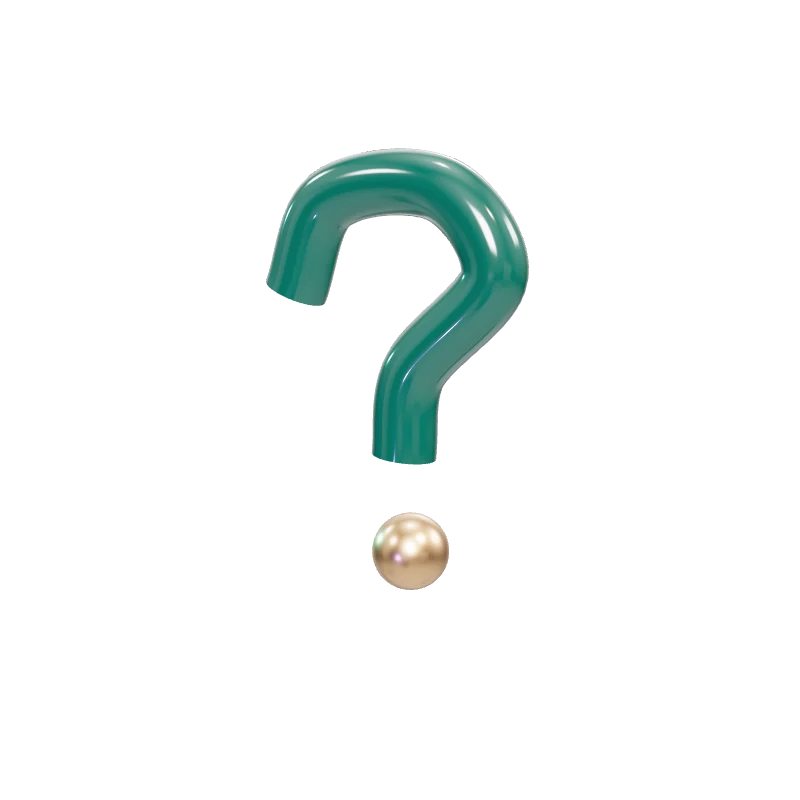
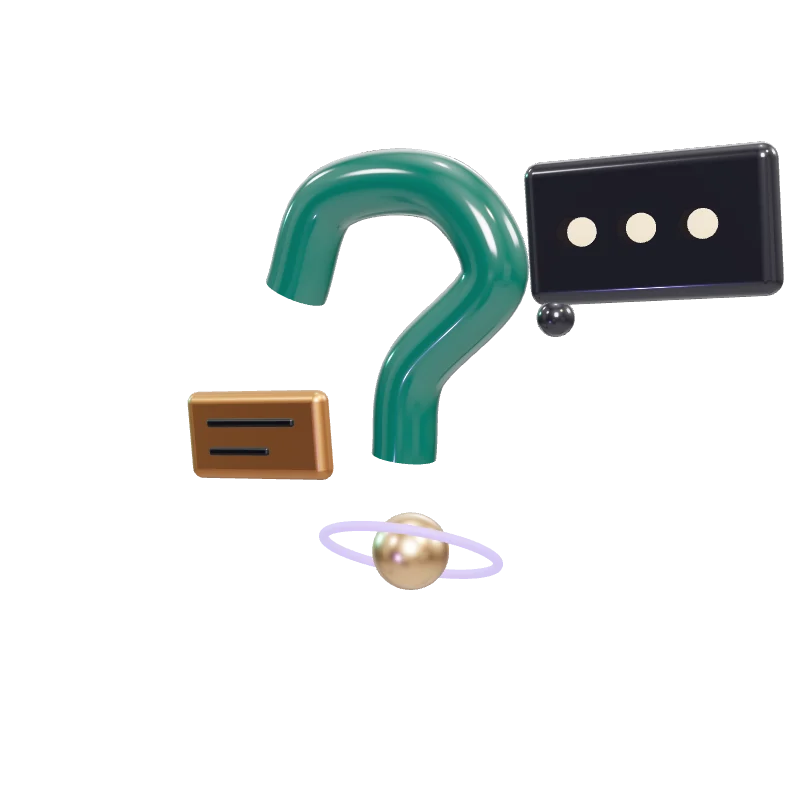
feat: glass FAQ accordion, category scrollspy and richer FAQ 3D art
Numbered glass accordion cards with gradient border and smooth open,
sticky category nav with active state, mobile category chips, and a
re-rendered question mark with answer bubbles.

Changed region(s): [[0.6562, 0.1562, 1.0, 0.4375], [0.2188, 0.4688, 0.4375, 0.625], [0.375, 0.625, 0.625, 0.75]]

diff --git a/client/src/styles/faq.css b/client/src/styles/faq.css
@@ -1,0 +1,178 @@
+/* ===========================================================
+   FAQ: glass accordion cards, numbered questions, category navigation.
+   Used by the FAQ page, the Home FAQ teaser and service detail pages.
+   =========================================================== */
+
+:root { interpolate-size: allow-keywords; }
+
+.faq-list { display: grid; gap: 0.75rem; }
+
+.faq-item {
+  border: 1px solid var(--line);
+  border-radius: 1rem;
+  background:
+    linear-gradient(180deg, rgba(255, 255, 255, 0.035), rgba(255, 255, 255, 0.01)) padding-box,
+    linear-gradient(var(--line), var(--line)) border-box;
+  transition: border-color 0.3s ease, background 0.3s ease, box-shadow 0.3s ease, transform 0.3s ease;
+}
+.faq-item:hover { border-color: var(--line-strong); }
+.faq-item[open] {
+  border-color: transparent;
+  background:
+    linear-gradient(180deg, rgba(25, 25, 30, 0.96), rgba(19, 19, 23, 0.96)) padding-box,
+    linear-gradient(120deg, rgba(214, 167, 122, 0.65), rgba(47, 179, 162, 0.45) 55%, rgba(139, 124, 246, 0.25)) border-box;
+  box-shadow: 0 24px 50px -36px rgba(214, 167, 122, 0.45);
+}
+
+.faq-q {
+  display: flex;
+  align-items: center;
+  gap: 1rem;
+  padding: 1.15rem 1.25rem;
+  cursor: pointer;
+  list-style: none;
+  font-weight: 600;
+  color: var(--t-primary);
+  border-radius: 1rem;
+}
+.faq-q::-webkit-details-marker { display: none; }
+.faq-q:focus-visible { outline: 2px solid var(--brand); outline-offset: 2px; }
+@media (min-width: 768px) { .faq-q { padding: 1.3rem 1.6rem; } }
+
+.faq-num {
+  flex-shrink: 0;
+  min-width: 2.25rem;
+  font-family: "JetBrains Mono", ui-monospace, monospace;
+  font-size: 0.75rem;
+  font-weight: 500;
+  letter-spacing: 0.08em;
+  color: rgba(214, 167, 122, 0.55);
+  transition: color 0.3s ease;
+}
+.faq-item[open] .faq-num,
+.faq-item:hover .faq-num { color: var(--brand); }
+
+/* Plus that turns into a minus */
+.faq-icon {
+  position: relative;
+  flex-shrink: 0;
+  width: 2rem;
+  height: 2rem;
+  border-radius: 999px;
+  border: 1px solid var(--line-strong);
+  transition: background 0.3s ease, border-color 0.3s ease, transform 0.4s cubic-bezier(0.2, 0.8, 0.2, 1);
+}
+.faq-icon::before,
+.faq-icon::after {
+  content: "";
+  position: absolute;
+  inset: 50% auto auto 50%;
+  width: 0.7rem;
+  height: 1.5px;
+  border-radius: 2px;
+  background: currentColor;
+  color: var(--brand);
+  translate: -50% -50%;
+  transition: rotate 0.4s cubic-bezier(0.2, 0.8, 0.2, 1);
+}
+.faq-icon::after { rotate: 90deg; }
+.faq-item[open] .faq-icon { background: var(--brand-soft); border-color: var(--brand-line); transform: rotate(180deg); }
+.faq-item[open] .faq-icon::after { rotate: 0deg; }
+
+.faq-a {
+  padding: 0 1.25rem 1.3rem calc(1.25rem + 3.25rem);
+  line-height: 1.75;
+  color: var(--t-secondary);
+}
+@media (min-width: 768px) { .faq-a { padding: 0 4.5rem 1.5rem calc(1.6rem + 3.25rem); } }
+@media (max-width: 479px) { .faq-a { padding-inline-start: 1.25rem; } }
+
+/* Smooth open/close where the browser supports animating <details> */
+.faq-item::details-content {
+  block-size: 0;
+  overflow: clip;
+  transition: block-size 0.4s cubic-bezier(0.2, 0.8, 0.2, 1), content-visibility 0.4s allow-discrete;
+}
+.faq-item[open]::details-content { block-size: auto; }
+.faq-item[open] .faq-a { animation: faq-in 0.45s ease both; }
+@keyframes faq-in {
+  from { opacity: 0; transform: translateY(-6px); }
+}
+
+/* ---------- FAQ page: category navigation ---------- */
+.faq-nav { padding: 0.5rem; }
+.faq-nav a {
+  position: relative;
+  display: flex;
+  align-items: center;
+  gap: 0.75rem;
+  min-height: 2.75rem;
+  padding: 0.55rem 0.85rem;
+  border-radius: 0.75rem;
+  font-size: 0.875rem;
+  color: var(--t-secondary);
+  transition: background 0.25s ease, color 0.25s ease;
+}
+.faq-nav a:hover { background: rgba(255, 255, 255, 0.04); color: var(--t-primary); }
+.faq-nav a[aria-current="true"] { background: var(--brand-soft); color: var(--t-primary); }
+.faq-nav a[aria-current="true"]::before {
+  content: "";
+  position: absolute;
+  inset-block: 0.6rem;
+  inset-inline-start: 0;
+  width: 2px;
+  border-radius: 2px;
+  background: linear-gradient(180deg, var(--brand), var(--teal));
+}
+.faq-nav .faq-nav-num { font-family: "JetBrains Mono", ui-monospace, monospace; font-size: 0.7rem; color: rgba(214, 167, 122, 0.7); }
+.faq-nav .faq-nav-count {
+  margin-inline-start: auto;
+  min-width: 1.6rem;
+  padding: 0.1rem 0.45rem;
+  border-radius: 999px;
+  border: 1px solid var(--line);
+  font-size: 0.7rem;
+  text-align: center;
+}
+
+/* Mobile: horizontal category chips */
+.faq-chips {
+  display: flex;
+  gap: 0.5rem;
+  overflow-x: auto;
+  scrollbar-width: none;
+  margin-inline: -1rem;
+  padding: 0 1rem 0.25rem;
+}
+.faq-chips::-webkit-scrollbar { display: none; }
+@media (min-width: 1024px) { .faq-chips { display: none; } }
+.faq-chips a {
+  flex-shrink: 0;
+  display: inline-flex;
+  align-items: center;
+  min-height: 2.5rem;
+  padding: 0 1rem;
+  border-radius: 999px;
+  border: 1px solid var(--line-strong);
+  background: rgba(255, 255, 255, 0.03);
+  font-size: 0.8125rem;
+  color: var(--t-secondary);
+  white-space: nowrap;
+}
+.faq-chips a[aria-current="true"] { border-color: var(--brand-line); background: var(--brand-soft); color: var(--t-primary); }
+
+.faq-cat-head { display: flex; align-items: flex-end; justify-content: space-between; gap: 1rem; margin-bottom: 1.25rem; }
+.faq-cat-index {
+  font-family: "JetBrains Mono", ui-monospace, monospace;
+  font-size: 0.75rem;
+  letter-spacing: 0.14em;
+  color: var(--brand);
+}
+.faq-cat-rule { height: 1px; flex: 1; margin-bottom: 0.6rem; background: linear-gradient(90deg, var(--brand-line), transparent); }
+[dir="rtl"] .faq-cat-rule { background: linear-gradient(270deg, var(--brand-line), transparent); }
+
+@media (prefers-reduced-motion: reduce) {
+  .faq-item::details-content { transition: none; }
+  .faq-item[open] .faq-a { animation: none; }
+  .faq-icon, .faq-icon::before, .faq-icon::after { transition: none; }
+}

diff --git a/client/src/pages/Faq.tsx b/client/src/pages/Faq.tsx
@@ -1,3 +1,4 @@
+import { useEffect, useState } from "react";
 import { Link } from "wouter";
 import { Layout } from "@/components/site/Layout";
 import { Render3D } from "@/components/visuals/Render3D";
@@ -5,37 +6,82 @@ import { FaqList, PageHero } from "@/components/site/blocks";
 import { useI18n } from "@/i18n";
 import { useSite } from "@/lib/site";
 
+const pad = (value: number) => String(value).padStart(2, "0");
+
+/** Tracks which FAQ category is currently in the reading zone of the viewport. */
+function useActiveSection(ids: string[]) {
+  const [active, setActive] = useState(ids[0] ?? "");
+  const key = ids.join("|");
+  useEffect(() => {
+    const sections = key.split("|").map((id) => document.getElementById(id)).filter((node): node is HTMLElement => node !== null);
+    if (sections.length === 0 || typeof IntersectionObserver === "undefined") return;
+    const observer = new IntersectionObserver(
+      (entries) => {
+        const visible = entries.filter((entry) => entry.isIntersecting);
+        if (visible.length > 0) setActive(visible[0].target.id);
+      },
+      { rootMargin: "-30% 0px -60% 0px" },
+    );
+    sections.forEach((section) => observer.observe(section));
+    return () => observer.disconnect();
+  }, [key]);
+  return active;
+}
+
 export default function Faq() {
   const { t } = useI18n();
   const { site } = useSite();
   const f = t.faq;
+  const total = f.categories.length;
+  const active = useActiveSection(f.categories.map((category) => category.id));
+
   return (
     <Layout>
       <PageHero eyebrow={f.eyebrow} title={f.title} subtitle={f.subtitle} art={<Render3D name="faq" float eager />} />
-      <section className="section-pad">
-        <div className="container-w grid gap-12 lg:grid-cols-[260px_1fr]">
+      <section className="section-pad mesh mesh-teal">
+        <div className="container-w grid gap-10 lg:grid-cols-[280px_1fr] lg:gap-14">
+          <nav aria-label={f.eyebrow} className="faq-chips lg:hidden">
+            {f.categories.map((category) => (
+              <a key={category.id} href={`#${category.id}`} aria-current={active === category.id ? "true" : undefined}>{category.title}</a>
+            ))}
+          </nav>
           <nav aria-label={f.eyebrow} className="hidden lg:block">
-            <ul className="sticky top-24 space-y-1 text-sm">
-              {f.categories.map((category) => (
+            <ul className="faq-nav glass-panel sticky top-24 space-y-0.5">
+              {f.categories.map((category, index) => (
                 <li key={category.id}>
-                  <a href={`#${category.id}`} className="flex min-h-11 items-center rounded-xl px-3 py-2 t-secondary hover:bg-[var(--bg-subtle)] hover:t-primary">{category.title}</a>
+                  <a href={`#${category.id}`} aria-current={active === category.id ? "true" : undefined}>
+                    <span className="faq-nav-num" aria-hidden="true">{pad(index + 1)}</span>
+                    <span>{category.title}</span>
+                    <span className="faq-nav-count" aria-hidden="true">{category.items.length}</span>
+                  </a>
                 </li>
               ))}
             </ul>
           </nav>
-          <div className="space-y-14">
-            {f.categories.map((category) => (
+          <div className="space-y-16">
+            {f.categories.map((category, index) => (
               <section key={category.id} id={category.id} className="scroll-mt-24" aria-labelledby={`${category.id}-title`}>
-                <h2 id={`${category.id}-title`} className="mb-5 text-2xl font-bold t-primary">{category.title}</h2>
+                <div className="faq-cat-head">
+                  <div>
+                    <p className="faq-cat-index" aria-hidden="true" dir="ltr">{pad(index + 1)} / {pad(total)}</p>
+                    <h2 id={`${category.id}-title`} className="mt-2 font-display text-3xl font-semibold t-primary md:text-4xl">{category.title}</h2>
+                  </div>
+                  <span className="faq-cat-rule" aria-hidden="true" />
+                </div>
                 <FaqList items={category.items} />
               </section>
             ))}
-            <div className="rounded-2xl bg-[var(--bg-subtle)] p-6 md:p-7">
-              <h2 className="text-xl font-bold t-primary">{f.stillTitle}</h2>
-              <p className="mt-2 t-secondary">{f.stillText}</p>
-              <div className="mt-5 flex flex-col gap-3 sm:flex-row">
-                <Link href="/contact" className="btn btn-primary">{t.common.cta.contactUs}</Link>
-                <a href={`https://wa.me/${site.whatsapp}`} target="_blank" rel="noopener noreferrer" className="btn btn-outline">{t.common.cta.whatsapp}</a>
+            <div className="glass-panel mesh mesh-gold relative overflow-hidden p-7 md:p-10">
+              <div className="grid items-center gap-6 md:grid-cols-[1fr_180px]">
+                <div>
+                  <h2 className="font-display text-3xl font-semibold t-primary">{f.stillTitle}</h2>
+                  <p className="mt-3 max-w-xl t-secondary">{f.stillText}</p>
+                  <div className="mt-6 flex flex-col gap-3 sm:flex-row">
+                    <Link href="/contact" className="btn btn-primary">{t.common.cta.contactUs}</Link>
+                    <a href={`https://wa.me/${site.whatsapp}`} target="_blank" rel="noopener noreferrer" className="btn btn-outline">{t.common.cta.whatsapp}</a>
+                  </div>
+                </div>
+                <Render3D name="cta" float className="hidden md:block" sizes="180px" />
               </div>
             </div>
           </div>

diff --git a/client/src/components/site/blocks.tsx b/client/src/components/site/blocks.tsx
@@ -2,7 +2,7 @@ import { Banner } from "@/components/visuals/Banner";
 import { Render3D } from "@/components/visuals/Render3D";
 import { Fragment, type CSSProperties, type ReactNode } from "react";
 import { Link } from "wouter";
-import { ArrowRight, CheckCircle2, ChevronDown, FileText, KeyRound, LayoutDashboard, Receipt, ShieldCheck, UserRound } from "lucide-react";
+import { ArrowRight, CheckCircle2, FileText, KeyRound, LayoutDashboard, Receipt, ShieldCheck, UserRound } from "lucide-react";
 import type { OfferId } from "@shared/site";
 import { useI18n } from "@/i18n";
 import { useOfferPrice, useSite } from "@/lib/site";
@@ -90,14 +90,15 @@ export function CheckList({ items, className = "" }: { items: string[]; classNam
 /** Native <details>: works without JavaScript, keyboard accessible, and indexable. */
 export function FaqList({ items }: { items: Array<{ q: string; a: string }> }) {
   return (
-    <div className="divide-y divide-[var(--line)] rounded-2xl border border-[var(--line)] bg-[var(--surface)]">
-      {items.map((item) => (
-        <details key={item.q} className="group px-6 md:px-7">
-          <summary className="flex cursor-pointer list-none items-center justify-between gap-4 py-5 text-start font-semibold t-primary [&::-webkit-details-marker]:hidden">
-            <span>{item.q}</span>
-            <ChevronDown className="h-5 w-5 shrink-0 t-secondary transition-transform group-open:rotate-180" aria-hidden="true" />
+    <div className="faq-list">
+      {items.map((item, index) => (
+        <details key={item.q} className="faq-item">
+          <summary className="faq-q text-start">
+            <span className="faq-num" aria-hidden="true">{String(index + 1).padStart(2, "0")}</span>
+            <span className="flex-1">{item.q}</span>
+            <span className="faq-icon" aria-hidden="true" />
           </summary>
-          <p className="pb-5 leading-relaxed t-secondary">{item.a}</p>
+          <p className="faq-a">{item.a}</p>
         </details>
       ))}
     </div>

diff --git a/client/src/components/three/objects.ts b/client/src/components/three/objects.ts
@@ -125,6 +125,16 @@ function faq(p: Palette) {
   ]);
   g.add(new THREE.Mesh(new THREE.TubeGeometry(curve, 96, 0.2, 24, false), p.teal));
   g.add(at(new THREE.Mesh(new THREE.SphereGeometry(0.24, 48, 48), p.gold), 0, -0.95, 0));
+  const halo = new THREE.Mesh(new THREE.TorusGeometry(0.55, 0.03, 16, 96), p.violet);
+  halo.rotation.x = Math.PI / 2.9;
+  g.add(at(halo, 0, -0.95, 0));
+  // Answer bubble with typing dots, behind and to the right.
+  g.add(at(new THREE.Mesh(slab(1.6, 0.9, 0.2, 0.3), p.smoke), 1.4, 0.95, -0.75));
+  [-0.38, 0, 0.38].forEach((dx) => g.add(at(new THREE.Mesh(new THREE.SphereGeometry(0.09, 32, 32), p.glowGold), 1.4 + dx, 0.95, -0.6)));
+  g.add(at(new THREE.Mesh(new THREE.SphereGeometry(0.12, 32, 32), p.smoke), 0.75, 0.42, -0.75));
+  // Second, smaller amber bubble with text lines, lower left.
+  g.add(at(new THREE.Mesh(slab(1.15, 0.62, 0.16, 0.22), p.amber), -1.45, -0.3, -0.55));
+  [0.1, -0.1].forEach((dy, i) => g.add(at(new THREE.Mesh(slab(i ? 0.5 : 0.72, 0.06, 0.04, 0.02), p.ink), -1.45 - (i ? 0.11 : 0), -0.3 + dy, -0.45)));
   g.rotation.set(0.1, -0.5, 0.08);
   return g;
 }

diff --git a/client/src/main.tsx b/client/src/main.tsx
@@ -3,6 +3,7 @@ import "./index.css";
 import "./styles/visuals.css";
 import "./styles/motion.css";
 import "./styles/depth.css";
+import "./styles/faq.css";
 
 const locale = localeFromPath(window.location.pathname);
 const prerenderLocale = document.documentElement.lang;
